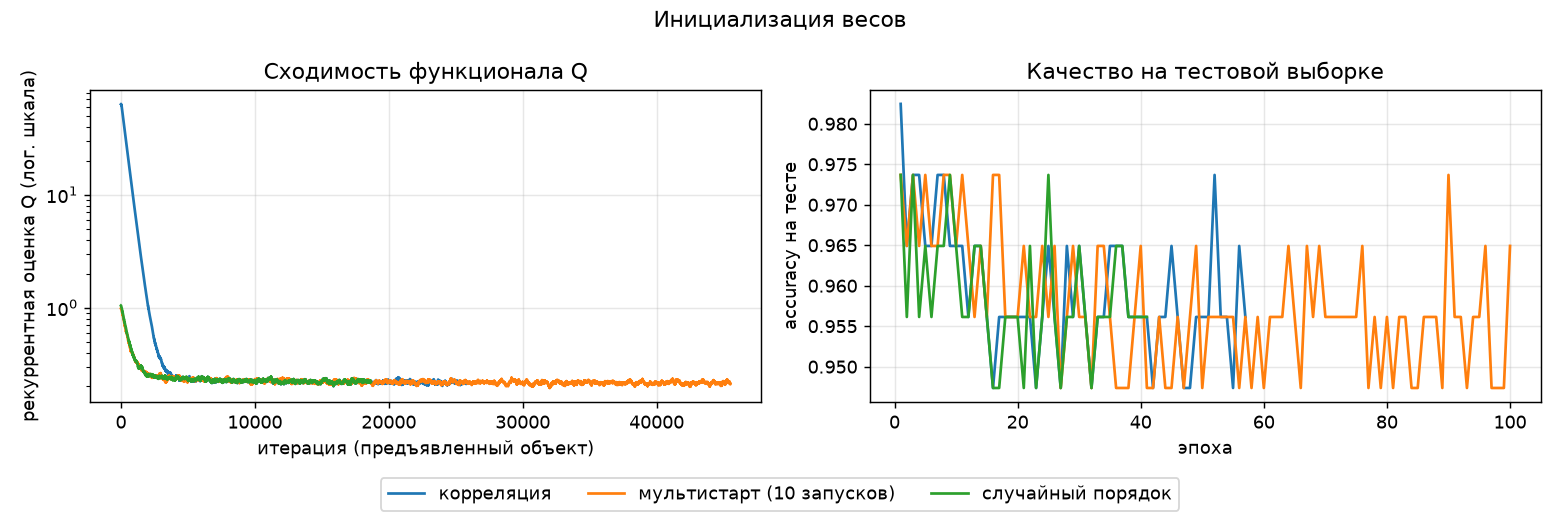
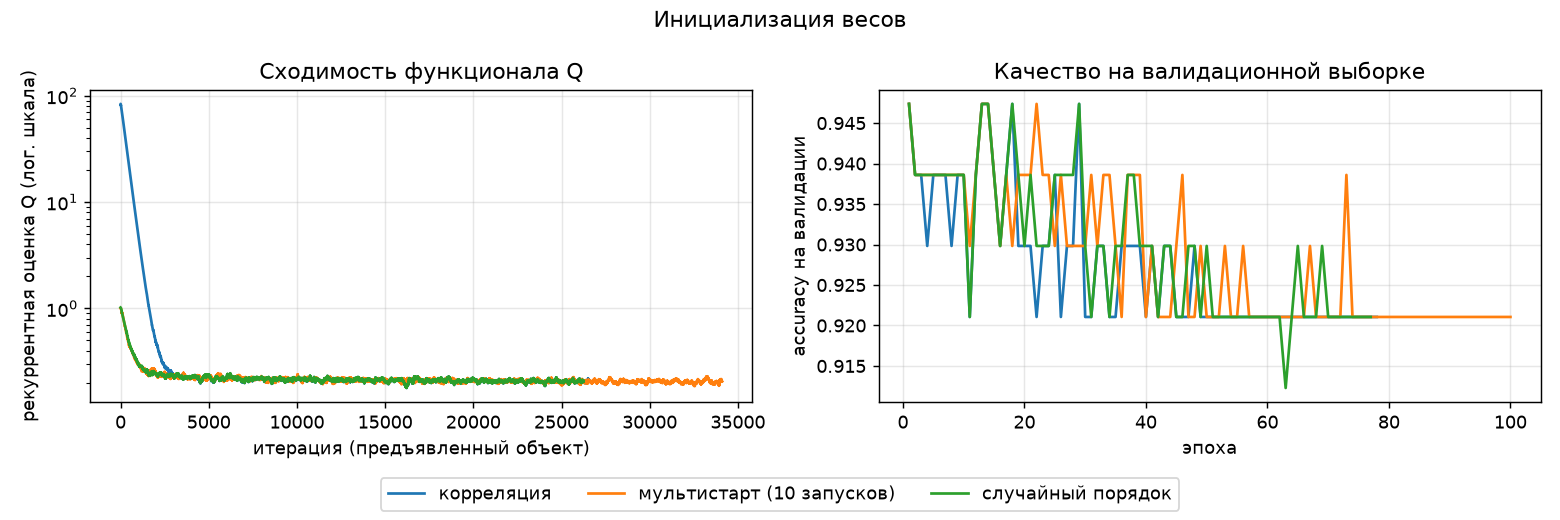
фикс графика и реализации мультистарта

diff --git a/students/konovalov-iv/lab1/source/main.py b/students/konovalov-iv/lab1/source/main.py
@@ -23,10 +23,10 @@ def timed_fit(model, *args):
 
 def main():
     IMAGES.mkdir(exist_ok=True)
-    X_train, X_test, y_train, y_test, _ = load_data()
-    print(f"train: {X_train.shape}, test: {X_test.shape}, "
+    X_train, X_val, X_test, y_train, y_val, y_test, _ = load_data()
+    print(f"train: {X_train.shape}, val: {X_val.shape}, test: {X_test.shape}, "
           f"доля класса +1: {np.mean(y_train == 1):.2f}")
-    fit_args = (X_train, y_train, X_test, y_test)
+    fit_args = (X_train, y_train, X_val, y_val)
 
     models, times = {}, {}
 
@@ -35,7 +35,7 @@ def main():
 
     start = time.perf_counter()
     best, risks = multistart(X_train, y_train, n_starts=10, seed=SEED,
-                             X_val=X_test, y_val=y_test, **PARAMS)
+                             X_val=X_val, y_val=y_val, **PARAMS)
     models["мультистарт (10 запусков)"] = best
     times["мультистарт (10 запусков)"] = time.perf_counter() - start
     print(f"мультистарт: риск min={min(risks):.4f}, max={max(risks):.4f}, лучший seed={best.seed}")
@@ -60,26 +60,29 @@ def main():
     for name, model in reference.items():
         _, times[name] = timed_fit(model, X_train[:, 1:], y_train)
 
-    results = {}
-    for name, model in models.items():
-        results[name] = classification_metrics(y_test, model.predict(X_test))
-    for name, model in reference.items():
-        results[name] = classification_metrics(y_test, model.predict(X_test[:, 1:]))
+    def predict(name, X):
+        return models[name].predict(X) if name in models else reference[name].predict(X[:, 1:])
 
-    print("\n| Модель | Accuracy | Precision | Recall | F1 | Q (train) | Эпох | Время, с |")
-    print("|---|---|---|---|---|---|---|---|")
+    val_results = {name: classification_metrics(y_val, predict(name, X_val)) for name in times}
+    results = {name: classification_metrics(y_test, predict(name, X_test)) for name in times}
+
+    print("\n| Модель | Accuracy (val) | F1 (val) | Accuracy | Precision | Recall | F1 | Q (train) | Эпох | Время, с |")
+    print("|---|---|---|---|---|---|---|---|---|---|")
     for name, r in results.items():
         if name in models:
             epochs = len(models[name].history["Q_epoch"])
             risk = f"{models[name].empirical_risk(X_train, y_train):.3f}"
         else:
-            epochs, risk = "—", "—"
-        print(f"| {name} | {r['accuracy']:.3f} | {r['precision']:.3f} | {r['recall']:.3f} "
-              f"| {r['f1']:.3f} | {risk} | {epochs} | {times[name]:.2f} |")
+            epochs, risk = "-", "-"
+        v = val_results[name]
+        print(f"| {name} | {v['accuracy']:.3f} | {v['f1']:.3f} | {r['accuracy']:.3f} | {r['precision']:.3f} "
+              f"| {r['recall']:.3f} | {r['f1']:.3f} | {risk} | {epochs} | {times[name]:.2f} |")
 
-    best_name = max(models, key=lambda n: (results[n]["f1"], results[n]["accuracy"]))
-    print(f"\nлучшая собственная модель: {best_name}")
-    print("матрица ошибок [[TN, FP], [FN, TP]]:")
+    best_name = max(models, key=lambda n: (val_results[n]["f1"], val_results[n]["accuracy"]))
+    print(f"\nлучшая собственная модель по валидации: {best_name}")
+    print(f"её качество на test: accuracy={results[best_name]['accuracy']:.3f}, "
+          f"F1={results[best_name]['f1']:.3f}")
+    print("матрица ошибок на test [[TN, FP], [FN, TP]]:")
     print(confusion_matrix(y_test, models[best_name].predict(X_test)))
 
     corr = models["корреляция"]

diff --git a/students/konovalov-iv/lab1/source/plots.py b/students/konovalov-iv/lab1/source/plots.py
@@ -4,22 +4,24 @@ matplotlib.use("Agg")
 import matplotlib.pyplot as plt
 import numpy as np
 
-def plot_margins(margins_by_title, path):
+def plot_margins(margins_by_title, path, delta=1.0):
     fig, axes = plt.subplots(1, len(margins_by_title), figsize=(6 * len(margins_by_title), 4))
     axes = np.atleast_1d(axes)
     for ax, (title, M) in zip(axes, margins_by_title.items()):
         M = np.sort(M)
         idx = np.arange(len(M))
         zones = [
-            (M < 0, "red", "ошибки, M < 0"),
-            ((M >= 0) & (M < 1), "gold", "пограничные, 0 ≤ M < 1"),
-            (M >= 1, "green", "надёжные, M ≥ 1"),
+            (M <= -delta, "red", f"шумовые, M ≤ -{delta:g}"),
+            (np.abs(M) < delta, "gold", f"пограничные, |M| < {delta:g}"),
+            (M >= delta, "green", f"надёжные, M ≥ {delta:g}"),
         ]
         for mask, color, label in zones:
             ax.fill_between(idx, 0, M, where=mask, color=color, alpha=0.35,
                             step="mid", label=f"{label}: {mask.sum()}")
         ax.plot(idx, M, color="black", linewidth=1.2)
         ax.axhline(0, color="gray", linewidth=1)
+        for level in (-delta, delta):
+            ax.axhline(level, color="gray", linewidth=0.8, linestyle="--")
         ax.set_title(title)
         ax.set_xlabel("объекты, упорядоченные по возрастанию отступа")
         ax.set_ylabel("отступ M = ⟨w, x⟩·y")
@@ -45,8 +47,8 @@ def plot_training(models_by_label, path, title, per_epoch=False):
     ax_q.set_ylabel("Q в конце эпохи (лог. шкала)" if per_epoch else "рекуррентная оценка Q (лог. шкала)")
     ax_q.set_title("Сходимость функционала Q")
     ax_acc.set_xlabel("эпоха")
-    ax_acc.set_ylabel("accuracy на тесте")
-    ax_acc.set_title("Качество на тестовой выборке")
+    ax_acc.set_ylabel("accuracy на валидации")
+    ax_acc.set_title("Качество на валидационной выборке")
     ax_q.grid(alpha=0.3)
     ax_acc.grid(alpha=0.3)
     fig.suptitle(title)

diff --git a/students/konovalov-iv/lab1/source/dataset.py b/students/konovalov-iv/lab1/source/dataset.py
@@ -8,16 +8,20 @@ def add_bias(X):
     return np.hstack([-np.ones((X.shape[0], 1)), X])
 
 
-def load_data(test_size=0.2, seed=42):
+def load_data(test_size=0.2, val_size=0.2, seed=42):
     data = load_breast_cancer()
     X = data.data
     y = np.where(data.target == 1, 1, -1)
 
-    X_train, X_test, y_train, y_test = train_test_split(
+    X_rest, X_test, y_rest, y_test = train_test_split(
         X, y, test_size=test_size, stratify=y, random_state=seed
+    )
+    X_train, X_val, y_train, y_val = train_test_split(
+        X_rest, y_rest, test_size=val_size / (1 - test_size), stratify=y_rest, random_state=seed
     )
     scaler = StandardScaler().fit(X_train)
     X_train = add_bias(scaler.transform(X_train))
+    X_val = add_bias(scaler.transform(X_val))
     X_test = add_bias(scaler.transform(X_test))
     feature_names = ["bias"] + list(data.feature_names)
-    return X_train, X_test, y_train, y_test, feature_names
+    return X_train, X_val, X_test, y_train, y_val, y_test, feature_names
